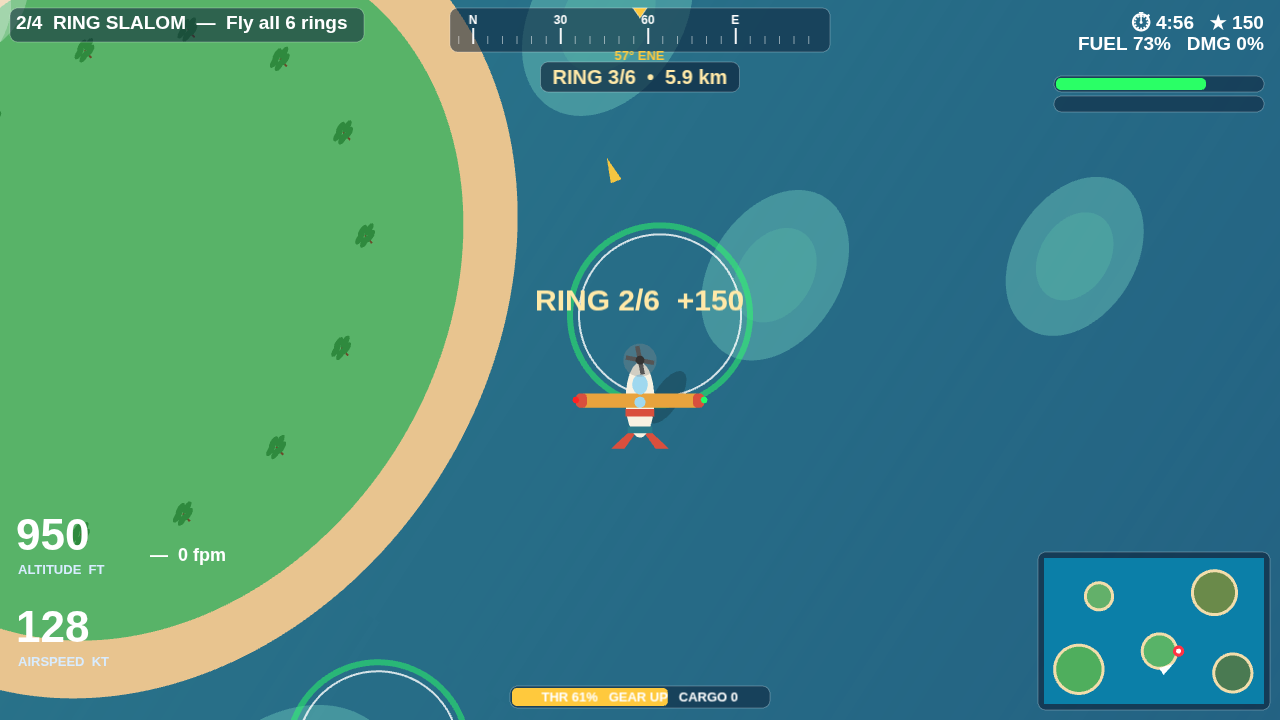
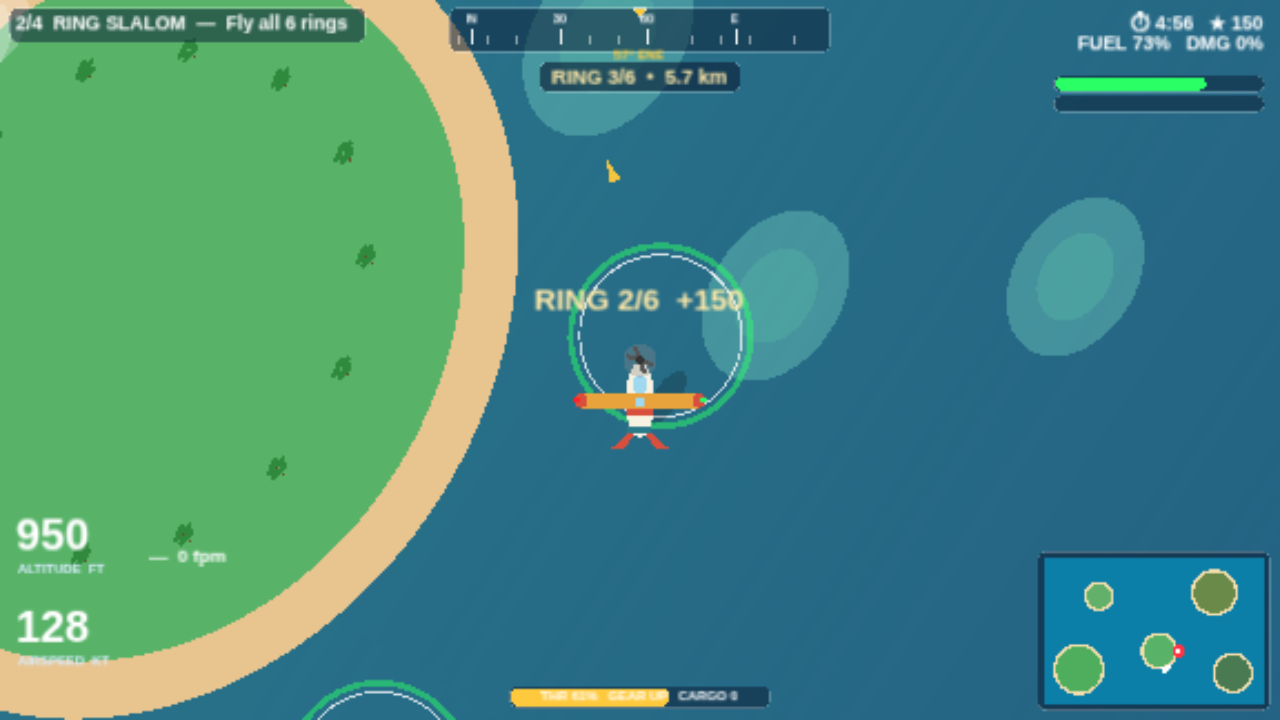
Perf: pool HUD text, cull world layers, drop hidden sky quad, render at 0.45x (1.4 -> 20 fps headless)

diff --git a/game/src/render.js b/game/src/render.js
@@ -5,7 +5,7 @@
 // drawn with PIXI.Graphics so the whole scene is code, no image files.
 
 import { VIEW_W, VIEW_H, WORLD_W, WORLD_H, PLANE_SCREEN_X, PLANE_SCREEN_Y, PALETTES } from './config.js';
-import { clamp, degToRad, lerp } from './random.js';
+import { clamp, degToRad, lerp, dist } from './random.js';
 
 function makeGradientTexture(palette, night) {
   const c = document.createElement('canvas');
@@ -16,19 +16,12 @@ function makeGradientTexture(palette, night) {
   grad.addColorStop(1, '#' + palette.seaB.toString(16).padStart(6, '0'));
   g.fillStyle = grad;
   g.fillRect(0, 0, 4, 512);
-  return PIXI.Texture.from(c);
-}
-
-function makeSkyTexture(palette) {
-  const c = document.createElement('canvas');
-  c.width = 4; c.height = 512;
-  const g = c.getContext('2d');
-  const grad = g.createLinearGradient(0, 0, 0, 512);
-  grad.addColorStop(0, '#' + palette.skyTop.toString(16).padStart(6, '0'));
-  grad.addColorStop(1, '#' + palette.skyBot.toString(16).padStart(6, '0'));
-  g.fillStyle = grad;
-  g.fillRect(0, 0, 4, 512);
-  return PIXI.Texture.from(c);
+  // The gradient is vertical-only (every column identical) with 512 steps
+  // for a ≤720px span, so nearest sampling is visually identical to
+  // bilinear here and cheaper per fragment in software GL.
+  const tex = PIXI.Texture.from(c);
+  tex.baseTexture.scaleMode = PIXI.SCALE_MODES.NEAREST;
+  return tex;
 }
 
 export function createRenderer(app, world, paletteKey) {
@@ -40,9 +33,12 @@ export function createRenderer(app, world, paletteKey) {
   app.stage.addChild(root);
 
   // Sky wash behind everything (screen space).
-  const sky = new PIXI.Sprite(makeSkyTexture(palette));
-  sky.width = VIEW_W; sky.height = VIEW_H;
-  root.addChild(sky);
+  // REMOVED (perf): the opaque sea sprite always covers the whole viewport
+  // — the plane is clamped inside the world and the sea rect extends 1200
+  // units past every world edge — so the sky quad was never visible; it
+  // only cost a full-screen blend pass in software GL. The canvas clear
+  // colour (0x0b7fa8) is behind the sea in any case.
+  // (Was: new PIXI.Sprite(makeSkyTexture(palette)), 1280x720, added first.)
 
   // World container: rotated -heading each frame, translated so the plane
   // sits at (640, 400).
@@ -57,6 +53,13 @@ export function createRenderer(app, world, paletteKey) {
 
   const scenery = new PIXI.Graphics();
   worldLayer.addChild(scenery);
+
+  // Per-island graphics (culled per frame; see render()). Reefs stay in
+  // the shared `scenery` layer; islands get their own Graphics so only
+  // the 1-2 islands near the viewport are rasterised each frame.
+  const islandLayer = new PIXI.Container();
+  worldLayer.addChild(islandLayer);
+  const sceneryParts = []; // { g, x, y, r } — r includes runway/town margin
 
   const ringLayer = new PIXI.Graphics();
   worldLayer.addChild(ringLayer);
@@ -73,6 +76,7 @@ export function createRenderer(app, world, paletteKey) {
   flash.beginFill(0xffffff, 0);
   flash.drawRect(0, 0, VIEW_W, VIEW_H);
   flash.endFill();
+  flash.visible = false; // only shown while a lightning flash is decaying
   root.addChild(flash);
 
   // Plane shadow (world space, under the plane's screen spot).
@@ -102,98 +106,102 @@ export function createRenderer(app, world, paletteKey) {
       scenery.endFill();
     }
     for (const isl of world.islands) {
+      // One Graphics per island so render() can cull off-screen islands.
+      const g = new PIXI.Graphics();
+      islandLayer.addChild(g);
+      sceneryParts.push({ g, x: isl.x, y: isl.y, r: isl.r + 300 });
       // Beach ring, then grass, then detail.
-      scenery.beginFill(palette.sand);
-      scenery.drawEllipse(isl.x, isl.y, isl.r, isl.r * 0.82);
-      scenery.endFill();
-      scenery.beginFill(isl.color);
-      scenery.drawEllipse(isl.x, isl.y, isl.r * 0.86, isl.r * 0.7);
-      scenery.endFill();
+      g.beginFill(palette.sand);
+      g.drawEllipse(isl.x, isl.y, isl.r, isl.r * 0.82);
+      g.endFill();
+      g.beginFill(isl.color);
+      g.drawEllipse(isl.x, isl.y, isl.r * 0.86, isl.r * 0.7);
+      g.endFill();
       // Palm clusters: little green starbursts with brown trunks.
       for (let p = 0; p < 14; p++) {
         const a = (p / 14) * Math.PI * 2 + isl.x * 0.001;
         const px = isl.x + Math.cos(a) * isl.r * 0.62;
         const py = isl.y + Math.sin(a) * isl.r * 0.5;
-        scenery.lineStyle(2, 0x6b4a2a);
-        scenery.moveTo(px, py); scenery.lineTo(px + 3, py - 10);
-        scenery.lineStyle(0);
-        scenery.beginFill(0x2f8a3e);
+        g.lineStyle(2, 0x6b4a2a);
+        g.moveTo(px, py); g.lineTo(px + 3, py - 10);
+        g.lineStyle(0);
+        g.beginFill(0x2f8a3e);
         for (let f = 0; f < 5; f++) {
           const fa = (f / 5) * Math.PI * 2;
-          scenery.drawEllipse(px + 3 + Math.cos(fa) * 7, py - 10 + Math.sin(fa) * 5, 7, 3);
+          g.drawEllipse(px + 3 + Math.cos(fa) * 7, py - 10 + Math.sin(fa) * 5, 7, 3);
         }
-        scenery.endFill();
+        g.endFill();
       }
       if (isl.kind === 'volcano') {
         // Smoking cone.
-        scenery.beginFill(0x5a4a3a);
-        scenery.moveTo(isl.x - 150, isl.y + 90);
-        scenery.lineTo(isl.x, isl.y - 190);
-        scenery.lineTo(isl.x + 150, isl.y + 90);
-        scenery.closePath();
-        scenery.endFill();
-        scenery.beginFill(0x8a5a3a);
-        scenery.moveTo(isl.x - 60, isl.y - 60);
-        scenery.lineTo(isl.x, isl.y - 190);
-        scenery.lineTo(isl.x + 60, isl.y - 60);
-        scenery.closePath();
-        scenery.endFill();
-        scenery.beginFill(0xdddddd, 0.8);
-        scenery.drawEllipse(isl.x + 40, isl.y - 210, 46, 16);
-        scenery.drawEllipse(isl.x + 90, isl.y - 235, 34, 12);
-        scenery.endFill();
-        scenery.beginFill(0xff7722, 0.9);
-        scenery.drawEllipse(isl.x, isl.y - 178, 18, 8);
-        scenery.endFill();
+        g.beginFill(0x5a4a3a);
+        g.moveTo(isl.x - 150, isl.y + 90);
+        g.lineTo(isl.x, isl.y - 190);
+        g.lineTo(isl.x + 150, isl.y + 90);
+        g.closePath();
+        g.endFill();
+        g.beginFill(0x8a5a3a);
+        g.moveTo(isl.x - 60, isl.y - 60);
+        g.lineTo(isl.x, isl.y - 190);
+        g.lineTo(isl.x + 60, isl.y - 60);
+        g.closePath();
+        g.endFill();
+        g.beginFill(0xdddddd, 0.8);
+        g.drawEllipse(isl.x + 40, isl.y - 210, 46, 16);
+        g.drawEllipse(isl.x + 90, isl.y - 235, 34, 12);
+        g.endFill();
+        g.beginFill(0xff7722, 0.9);
+        g.drawEllipse(isl.x, isl.y - 178, 18, 8);
+        g.endFill();
       }
       if (isl.town) {
         // Little town: rows of roofs along the beach.
         for (let b = 0; b < 9; b++) {
           const bx = isl.x - 200 + b * 46;
           const by = isl.y + isl.r * 0.42 - (b % 3) * 26;
-          scenery.beginFill([0xd94f3d, 0xe8a33d, 0x3d7ad9, 0xe8e0c8][b % 4]);
-          scenery.drawRect(bx, by, 30, 20);
-          scenery.endFill();
-          scenery.beginFill(0x8a4a2a);
-          scenery.moveTo(bx - 2, by);
-          scenery.lineTo(bx + 15, by - 12);
-          scenery.lineTo(bx + 32, by);
-          scenery.closePath();
-          scenery.endFill();
+          g.beginFill([0xd94f3d, 0xe8a33d, 0x3d7ad9, 0xe8e0c8][b % 4]);
+          g.drawRect(bx, by, 30, 20);
+          g.endFill();
+          g.beginFill(0x8a4a2a);
+          g.moveTo(bx - 2, by);
+          g.lineTo(bx + 15, by - 12);
+          g.lineTo(bx + 32, by);
+          g.closePath();
+          g.endFill();
         }
       }
       if (isl.hangar && isl.runway) {
         const hx = isl.runway.x + 190;
         const hy = isl.runway.y + 120;
-        scenery.beginFill(0x9aa4ae);
-        scenery.drawRoundedRect(hx - 55, hy - 32, 110, 64, 8);
-        scenery.endFill();
-        scenery.beginFill(0x5a646e);
-        scenery.drawRect(hx - 55, hy + 8, 110, 24);
-        scenery.endFill();
-        scenery.beginFill(0x333333);
-        scenery.drawRect(hx - 30, hy + 8, 60, 24);
-        scenery.endFill();
+        g.beginFill(0x9aa4ae);
+        g.drawRoundedRect(hx - 55, hy - 32, 110, 64, 8);
+        g.endFill();
+        g.beginFill(0x5a646e);
+        g.drawRect(hx - 55, hy + 8, 110, 24);
+        g.endFill();
+        g.beginFill(0x333333);
+        g.drawRect(hx - 30, hy + 8, 60, 24);
+        g.endFill();
         // Parked fuel truck + jeep.
-        scenery.beginFill(0xe8c33d);
-        scenery.drawRoundedRect(hx - 120, hy + 40, 34, 14, 4);
-        scenery.endFill();
-        scenery.beginFill(0x3d7a4a);
-        scenery.drawRoundedRect(hx + 70, hy + 44, 26, 12, 4);
-        scenery.endFill();
+        g.beginFill(0xe8c33d);
+        g.drawRoundedRect(hx - 120, hy + 40, 34, 14, 4);
+        g.endFill();
+        g.beginFill(0x3d7a4a);
+        g.drawRoundedRect(hx + 70, hy + 44, 26, 12, 4);
+        g.endFill();
       }
-      if (isl.runway) drawRunway(scenery, isl.runway, isNight);
+      if (isl.runway) drawRunway(g, isl.runway, isNight);
       if (isl.dropZone) {
-        scenery.lineStyle(4, 0xff3344, 0.95);
-        scenery.drawCircle(isl.dropZone.x, isl.dropZone.y, isl.dropZone.r);
-        scenery.lineStyle(2, 0xffffff, 0.8);
-        scenery.drawCircle(isl.dropZone.x, isl.dropZone.y, isl.dropZone.r * 0.6);
-        scenery.beginFill(0xff3344, 0.9);
-        scenery.drawCircle(isl.dropZone.x, isl.dropZone.y, 10);
-        scenery.endFill();
+        g.lineStyle(4, 0xff3344, 0.95);
+        g.drawCircle(isl.dropZone.x, isl.dropZone.y, isl.dropZone.r);
+        g.lineStyle(2, 0xffffff, 0.8);
+        g.drawCircle(isl.dropZone.x, isl.dropZone.y, isl.dropZone.r * 0.6);
+        g.beginFill(0xff3344, 0.9);
+        g.drawCircle(isl.dropZone.x, isl.dropZone.y, 10);
+        g.endFill();
       }
       // Island name label.
-      scenery.lineStyle(0);
+      g.lineStyle(0);
     }
   }
 
@@ -392,6 +400,17 @@ export function createRenderer(app, world, paletteKey) {
       shadow.drawEllipse(plane.x + shOff * 0.8, plane.y + shOff, 26 * shScale, 11 * shScale);
       shadow.endFill();
 
+      // Cull off-screen islands / clouds / rings: only rasterise what can
+      // be seen from the plane (viewport half-diagonal ~755 + margin).
+      // Toggling .visible skips the draw entirely; geometry stays cached.
+      for (const part of sceneryParts) {
+        part.g.visible = dist(plane.x, plane.y, part.x, part.y) < 800 + part.r;
+      }
+      for (const { g, cl } of cloudSprites) {
+        g.visible = dist(plane.x, plane.y, cl.x, cl.y) < 800 + cl.s;
+      }
+      ringLayer.visible = dist(plane.x, plane.y, 3150, 2550) < 800 + 700;
+
       // Clouds drift.
       for (const { g, cl } of cloudSprites) {
         cl.x += cl.speed * 0.016;
@@ -401,7 +420,7 @@ export function createRenderer(app, world, paletteKey) {
       }
 
       drawPlane(plane, time);
-      drawRings(ms);
+      if (ringLayer.visible) drawRings(ms);
 
       // Rain in screen space.
       rainLayer.clear();
@@ -416,13 +435,18 @@ export function createRenderer(app, world, paletteKey) {
         }
       }
 
-      // Lightning flash decays.
+      // Lightning flash decays. Skip the full-screen quad entirely while
+      // its level is 0 (it is fully transparent then, so nothing changes
+      // visually) — a needless full-screen blend pass in software GL.
       flashLevel = Math.max(0, flashLevel - 0.05);
       if (lightning) flashLevel = 0.85;
-      flash.clear();
-      flash.beginFill(0xffffff, flashLevel * 0.5);
-      flash.drawRect(0, 0, VIEW_W, VIEW_H);
-      flash.endFill();
+      flash.visible = flashLevel > 0;
+      if (flash.visible) {
+        flash.clear();
+        flash.beginFill(0xffffff, flashLevel * 0.5);
+        flash.drawRect(0, 0, VIEW_W, VIEW_H);
+        flash.endFill();
+      }
 
       // Particles (smoke / splash / crate) in screen space near the plane.
       fxLayer.clear();

diff --git a/game/src/hud.js b/game/src/hud.js
@@ -19,6 +19,25 @@ export function createHud(app, world) {
   const compassG = new PIXI.Graphics();
   layer.addChild(compassG);
 
+  // Compass tick labels, pooled once: at most 5 major ticks (every 30°)
+  // are visible in the ±60° tape, so 9 pooled labels give ample headroom.
+  // Reused every frame — never re-created, never removed.
+  const compassLabels = [];
+  for (let i = 0; i < 9; i++) {
+    const t = new PIXI.Text('', { fontFamily: 'Arial, sans-serif', fontSize: 12, fontWeight: 'bold', fill: 0xffffff });
+    t.anchor.set(0.5, 0);
+    t.position.set(0, 12);
+    t.visible = false;
+    compassG.addChild(t);
+    compassLabels.push(t);
+  }
+
+  // Current heading readout, created once; only .text changes per frame.
+  const hdgText = new PIXI.Text('', { fontFamily: 'Arial, sans-serif', fontSize: 13, fontWeight: 'bold', fill: 0xffc93d });
+  hdgText.anchor.set(0.5, 0);
+  hdgText.position.set(VIEW_W / 2, 48);
+  compassG.addChild(hdgText);
+
   const status = new PIXI.Text('', { fontFamily: 'Arial, sans-serif', fontSize: 19, fontWeight: 'bold', fill: 0xffffff, align: 'right' });
   status.position.set(VIEW_W - 16, 12);
   status.anchor.set(1, 0);
@@ -55,6 +74,12 @@ export function createHud(app, world) {
 
   const throttleG = new PIXI.Graphics();
   layer.addChild(throttleG);
+
+  // Throttle/gear/cargo label, created once; only .text changes per frame.
+  const thrLabel = new PIXI.Text('', { fontFamily: 'Arial, sans-serif', fontSize: 13, fontWeight: 'bold', fill: 0xffffff });
+  thrLabel.anchor.set(0.5, 0.5);
+  thrLabel.position.set(VIEW_W / 2, VIEW_H - 23);
+  throttleG.addChild(thrLabel);
 
   const msgText = new PIXI.Text('', { fontFamily: 'Arial, sans-serif', fontSize: 30, fontWeight: 'bold', fill: 0xffe9a8, align: 'center' });
   msgText.anchor.set(0.5, 0.5);
@@ -98,9 +123,9 @@ export function createHud(app, world) {
 
     // --- Compass tape, top-centre.
     compassG.clear();
-    compassG.removeChildren();
     panel(compassG, VIEW_W / 2 - 190, 8, 380, 44);
     const cx = VIEW_W / 2;
+    let li = 0;
     for (let d = -60; d <= 60; d += 5) {
       const hdg = Math.round((plane.heading + d) / 5) * 5;
       const off = (wrapAngleDeg(hdg - plane.heading) / 60) * 175;
@@ -111,20 +136,18 @@ export function createHud(app, world) {
       compassG.lineTo(x, major ? 28 : 36);
       if (major) {
         const label = hdg % 90 === 0 ? ['N', 'E', 'S', 'W'][Math.round(((hdg % 360) + 360) % 360 / 90)] : String(((hdg % 360) + 360) % 360);
-        const t = new PIXI.Text(label, { fontFamily: 'Arial, sans-serif', fontSize: 12, fontWeight: 'bold', fill: 0xffffff });
-        t.anchor.set(0.5, 0);
-        t.position.set(x, 12);
-        compassG.addChild(t);
+        const t = compassLabels[li++];
+        t.text = label;
+        t.position.x = x;
+        t.visible = true;
       }
     }
+    for (; li < compassLabels.length; li++) compassLabels[li].visible = false;
     // Centre caret + current heading readout.
     compassG.beginFill(0xffc93d);
     compassG.drawPolygon([cx - 7, 8, cx + 7, 8, cx, 18]);
     compassG.endFill();
-    const hdgText = new PIXI.Text(Math.round(((plane.heading % 360) + 360) % 360) + '° ' + headingToCompass(plane.heading), { fontFamily: 'Arial, sans-serif', fontSize: 13, fontWeight: 'bold', fill: 0xffc93d });
-    hdgText.anchor.set(0.5, 0);
-    hdgText.position.set(cx, 48);
-    compassG.addChild(hdgText);
+    hdgText.text = Math.round(((plane.heading % 360) + 360) % 360) + '° ' + headingToCompass(plane.heading);
 
     // --- Status block, top-right: timer, score, fuel, damage.
     const mm = Math.floor(Math.max(0, ms.timeLeft) / 60);
@@ -205,15 +228,11 @@ export function createHud(app, world) {
 
     // --- Throttle bar + gear/flaps, bottom-centre.
     throttleG.clear();
-    throttleG.removeChildren();
     panel(throttleG, VIEW_W / 2 - 130, VIEW_H - 34, 260, 22);
     throttleG.beginFill(0xffc93d);
     throttleG.drawRoundedRect(VIEW_W / 2 - 128, VIEW_H - 32, 256 * clamp(plane.throttle, 0, 1), 18, 5);
     throttleG.endFill();
-    const thrLabel = new PIXI.Text('THR ' + Math.round(plane.throttle * 100) + '%   GEAR ' + (plane.gearDown ? 'DOWN' : 'UP') + '   CARGO ' + plane.cargo, { fontFamily: 'Arial, sans-serif', fontSize: 13, fontWeight: 'bold', fill: 0xffffff });
-    thrLabel.anchor.set(0.5, 0.5);
-    thrLabel.position.set(VIEW_W / 2, VIEW_H - 23);
-    throttleG.addChild(thrLabel);
+    thrLabel.text = 'THR ' + Math.round(plane.throttle * 100) + '%   GEAR ' + (plane.gearDown ? 'DOWN' : 'UP') + '   CARGO ' + plane.cargo;
 
     // --- Centre message + warnings.
     msgText.text = time < ms.messageUntil ? ms.message : '';

diff --git a/game/src/main.js b/game/src/main.js
@@ -24,7 +24,12 @@ const rng = mulberry32(params.seed);
 const app = new PIXI.Application({
   width: VIEW_W, height: VIEW_H,
   backgroundColor: 0x0b7fa8,
-  antialias: true,
+  // Perf (headless SwiftShader / weak GPUs): MSAA + full-res backing store
+  // cost ~700ms/frame there (measured 1.4 fps). The logical view stays
+  // 1280x720; only the backing store is smaller (576x324), upscaled by
+  // the canvas — same content, slightly softer image.
+  antialias: false,
+  resolution: 0.45,
 });
 document.getElementById('game').appendChild(app.view);
 
